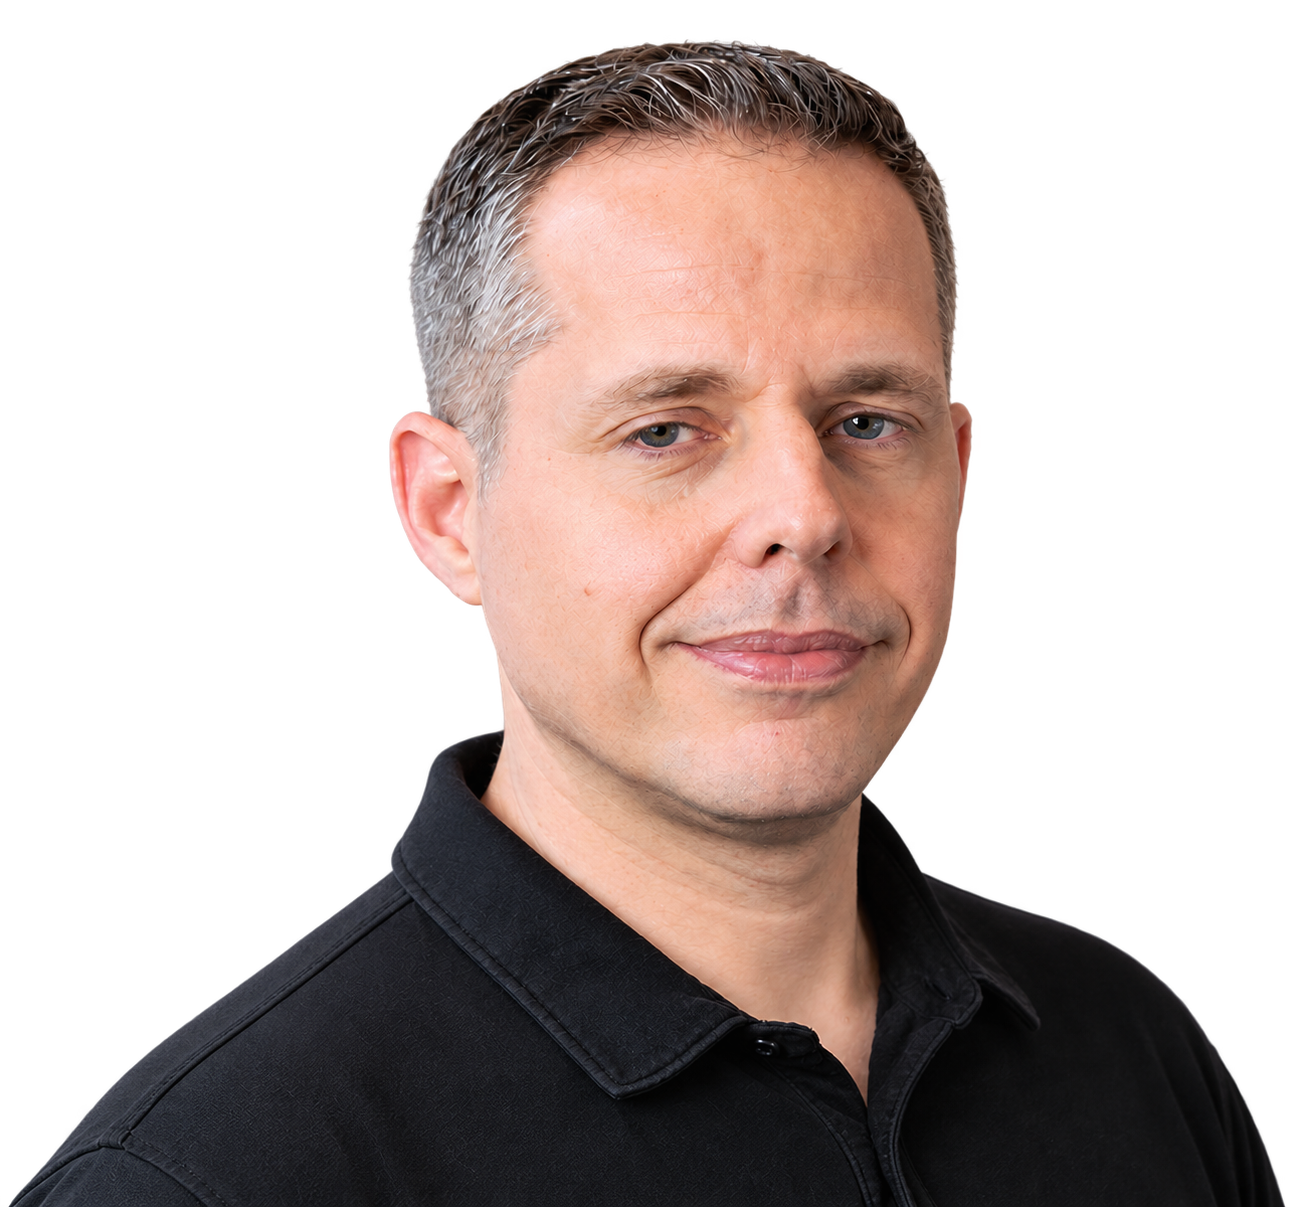
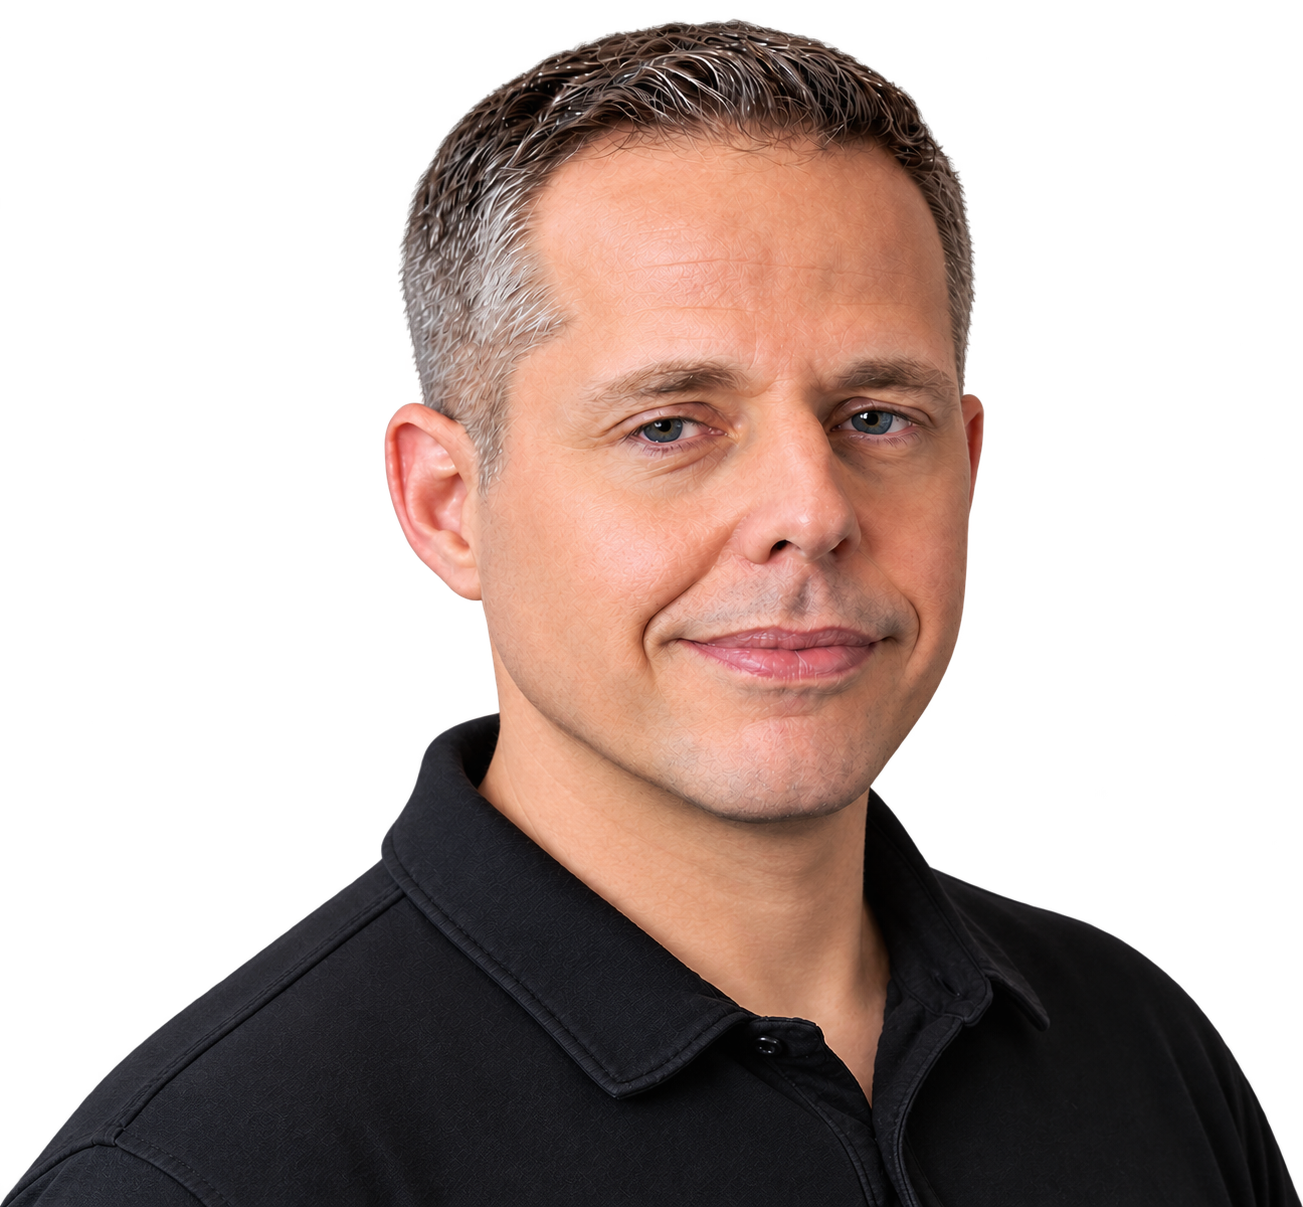
Fix responsive Accord layout

diff --git a/src/designs/accord.css b/src/designs/accord.css
@@ -92,7 +92,7 @@
 
 @media (min-width: 1700px) {
   .accord { grid-template-columns: minmax(420px, calc((100vw - 780px) / 2)) minmax(0, 1fr); }
-  .accord-identity { padding-left: max(65px, calc((100vw - 1320px) / 2)); }
+  .accord-identity { padding-left: clamp(65px, 4vw, 96px); }
   .accord-portrait { width: 330px; }
 }
 @media (max-width: 1000px) {
@@ -107,13 +107,13 @@
   .accord-identity { position: relative; top: auto; min-height: 0; padding: 25px 24px 27px; }
   .accord h1 { font-size: clamp(3.15rem, 9vw, 4.5rem); }
   .accord-name > p { font-size: 1.25rem; margin-top: 15px; }
-  .accord-intro { max-width: 100%; margin: 23px 0 14px; }
+  .accord-intro { width: 100%; max-width: none; margin: 23px 0 14px; }
   .accord-name { padding-right: 110px; }
-  .accord-profile { position: absolute; top: 38px; right: 16px; display: flex; width: 170px; flex-direction: column; align-items: center; }
-  .accord-profile .contact-links { order: 1; flex-direction: row; flex-wrap: nowrap; gap: 8px; margin-top: 6px; font-size: .75rem; white-space: nowrap; }
+  .accord-profile { display: contents; }
+  .accord-profile .contact-links { order: 1; flex-direction: row; flex-wrap: wrap; gap: 8px 18px; margin-top: 6px; font-size: .75rem; }
   .accord-profile .contact-links a { padding-block: 3px; }
-  .accord-portrait { order: 0; width: 115px; aspect-ratio: 1; padding: 0; margin: 0; overflow: hidden; border: 2px solid #a8c3e9; border-radius: 50%; background: #223754; }
-  .accord-portrait img { width: 88%; height: 88%; margin: 9% auto 0; object-fit: contain; object-position: center bottom; }
+  .accord-portrait { position: absolute; top: 38px; right: 16px; order: 0; width: 115px; aspect-ratio: 1; padding: 0; margin: 0; overflow: hidden; border: 2px solid #f2f5fa; border-radius: 50%; background: #2e496b; }
+  .accord-portrait img { width: 100%; height: 100%; margin: 0; object-fit: contain; object-position: center bottom; }
   .accord-content { padding: 30px 24px 22px; }
   .accord-lead { font-size: 1.375rem; margin-top: 24px; }
   .accord-index summary { gap: 12px; }
@@ -123,7 +123,7 @@
   .accord-capabilities { margin: 36px 0 31px; }
   .accord-capabilities-heading { margin-bottom: 22px; }
   .accord-capabilities-heading h2 { font-size: 1.5rem; }
-  .accord-capability-grid { gap: 10px; }
+  .accord-capability-grid { gap: 26px; }
   .accord-capability-items { grid-template-columns: 1fr; }
   .accord-technology-record { gap: 14px; }
   .accord-earlier summary { gap: 16px; }
@@ -133,9 +133,7 @@
   .design-picker button { flex: 0 0 auto; white-space: nowrap; }
 }
 @media (max-width: 380px) {
-  .accord-profile { top: 56px; right: 8px; width: 140px; }
-  .accord-portrait { width: 89px; }
-  .accord-intro { padding-right: 98px; }
+  .accord-portrait { top: 56px; right: 8px; width: 89px; }
   .accord-name { padding-right: 78px; }
   .accord h1 { font-size: 2.9rem; }
   .accord-name > p { font-size: 1.125rem; }
